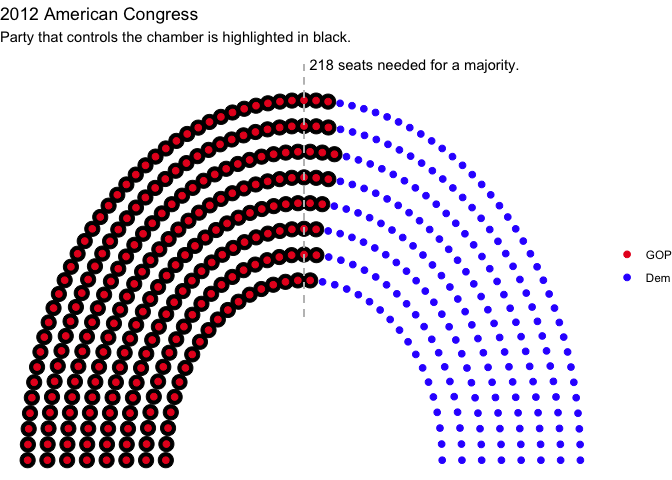
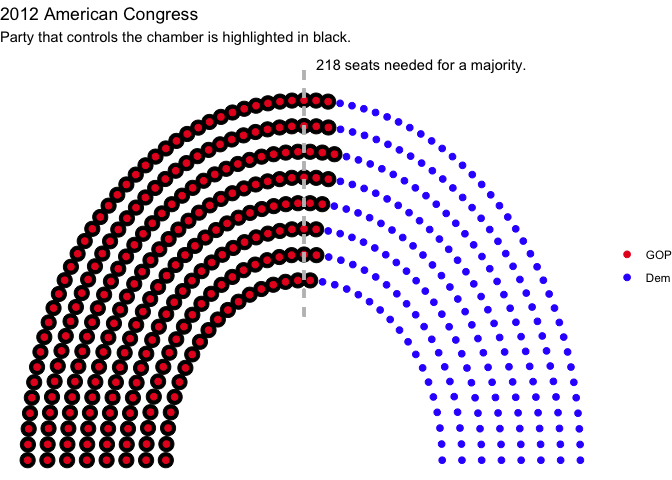
update horseshoe majority line

diff --git a/README.md b/README.md
@@ -122,19 +122,17 @@ germany <- parliament_data(election_data = germany,
                            party_seats = germany$seats, 
                            type = 'semicircle')
 
-ggplot(germany, aes(x,
+ger <- ggplot(germany, aes(x,
                     y,
                     colour = party_short))+
   geom_parliament_seats()+
-  geom_highlight_government(government==1) + 
+  geom_highlight_government(government == 1) + 
   labs(colour="Party", 
        title="Germany 2017 Election Results") + 
   theme_void()+
   scale_colour_manual(values = germany$colour, 
                       limits = germany$party_short)
 ```
-
-![](README_files/figure-html/unnamed-chunk-6-1.png)<!-- -->
 
 ## Opposing Benches Parliament
 
@@ -171,9 +169,9 @@ right <- ggplot(uk_17_right, aes(x,
                                  y, 
                                  colour = party_short)) +
   geom_parliament_seats() + 
+  geom_highlight_government(government==1) + 
   theme_void() +
   labs(colour = NULL) +
-  geom_highlight_government(government==1) + 
   scale_colour_manual(values = uk_17_right$colour, 
                       limits = uk_17_right$party_short) +
   theme(legend.position = 'right')
@@ -447,8 +445,36 @@ uk_parliament
 ![](README_files/figure-html/unnamed-chunk-17-1.png)<!-- -->
 
 
-Note: This works but we need to fix up our data. Australia, for example, has had several hung parliaments in recent years. In 2010, the ALP formed a coalition with several independent candidates and 1 Green's candidate but these are represented in the data. As a result,because the user will define the majority to be 76 -- and there aren't 76 government seats represented -- this function doesn't work. The underlying function uses `dplyr` to filter on the government variable before finding the x and y coordinates of the `row_number()== n`. 
+```r
+australia <- election_data %>%
+  filter(country == "Australia" &
+    house == "Representatives" &
+    year == 2016) 
 
+australia1 <- parliament_data(election_data = australia,
+  total_seats = sum(australia$seats),
+  party_seats = australia$seats,
+  parl_rows = 4,
+  type = "horseshoe")
+
+au <-ggplot(australia1, aes(x, 
+                            y, 
+                            colour = party_short)) +
+  geom_parliament_seats() + 
+  geom_highlight_government(government == 1) + 
+  draw_majoritythreshold(n=76,
+                         type = 'horseshoe') + 
+  theme_void() +
+  labs(colour = NULL, 
+       title = "Australian Parliament",
+       subtitle = "Government encircled in black.") +
+  scale_colour_manual(values = australia$colour, 
+                      limits = australia$party_short) + 
+  theme(legend.position = 'bottom') 
+au
+```
+
+![](README_files/figure-html/unnamed-chunk-18-1.png)<!-- -->
 
 # TODO
 
